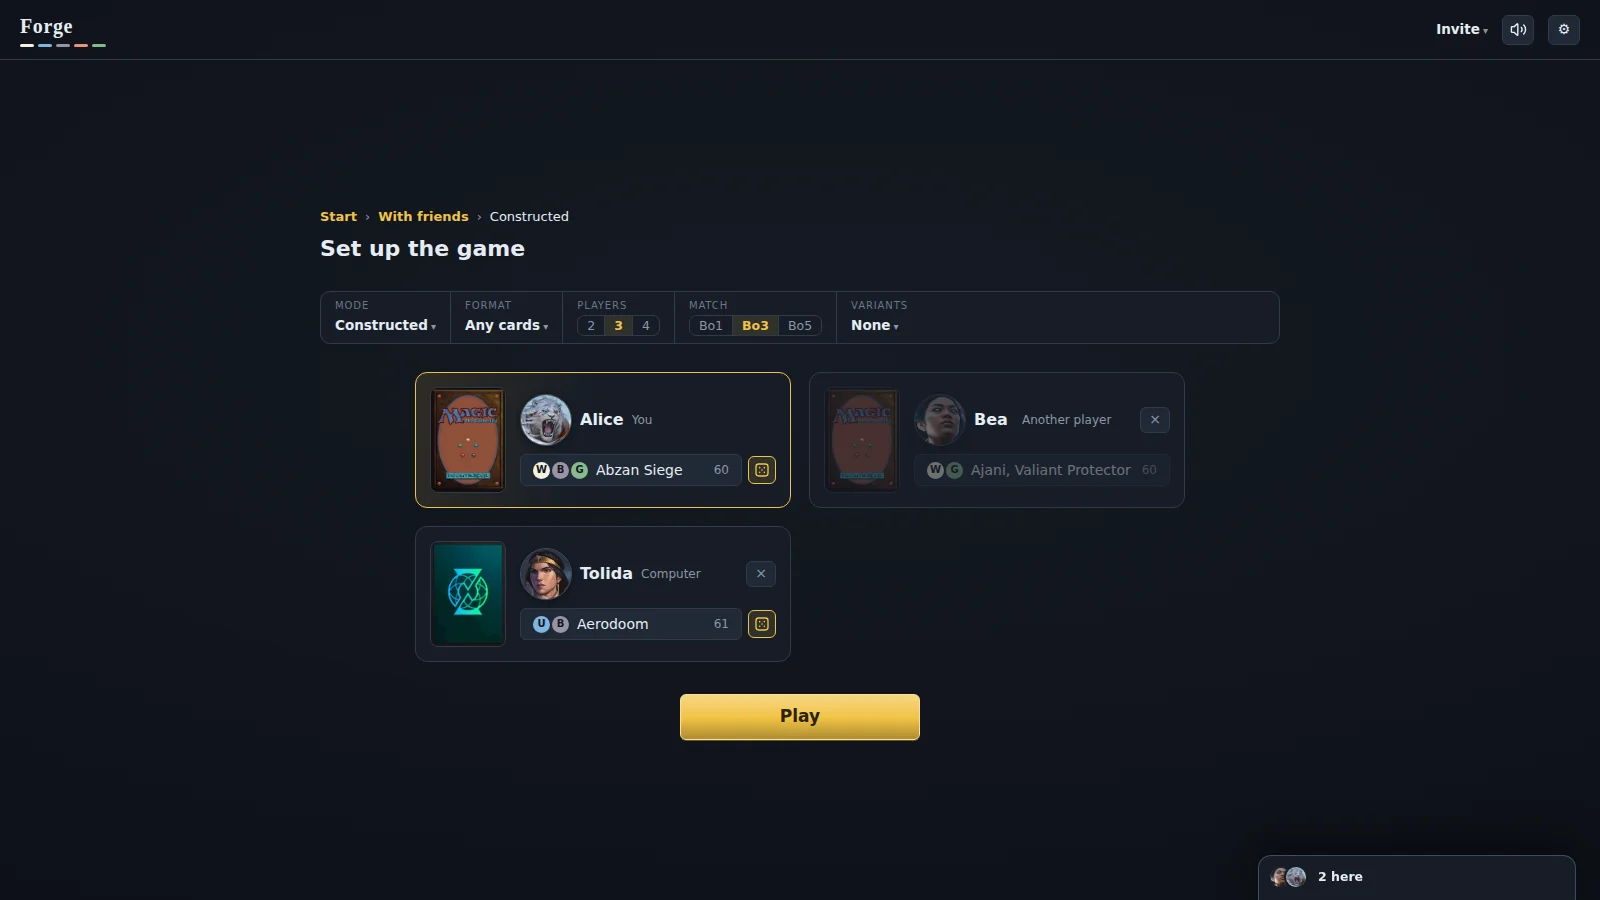
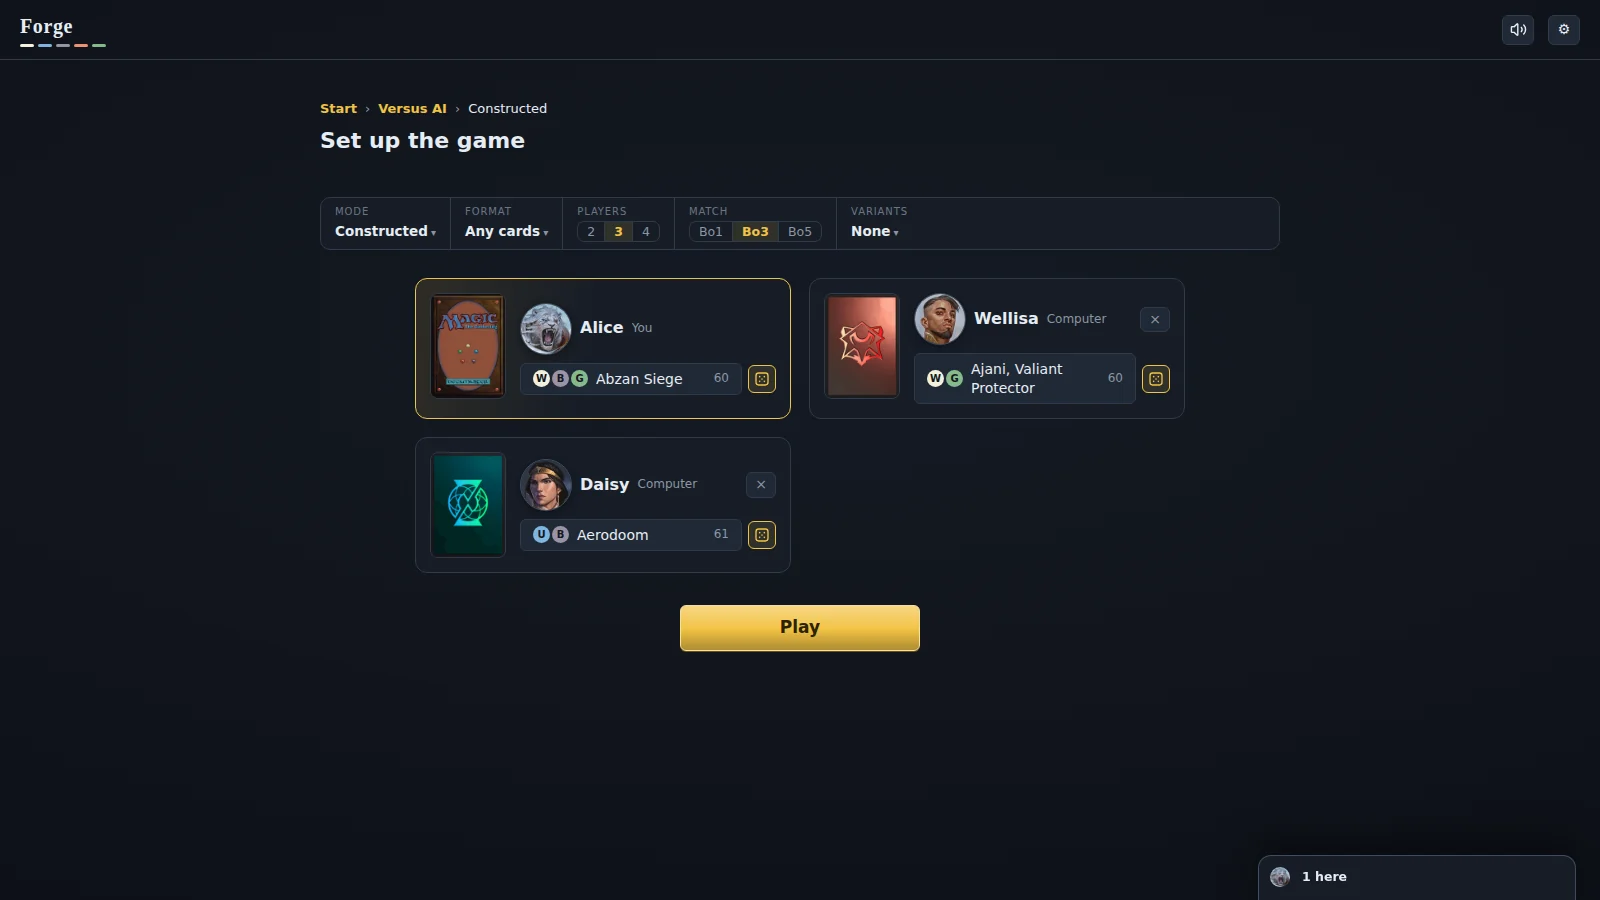
Retake the README's table as a game against the AI, with the setup trail where it now stands
Claude-Session: https://claude.ai/code/session_01TgNSLRqakXnvPoScQdAR6q

diff --git a/forge-gui-web/README.md b/forge-gui-web/README.md
@@ -7,7 +7,7 @@ The interface aims to be modern and easy to pick up, and leaves out much of desk
 It is built for a computer with a mouse and keyboard; phones and tablets aren't supported yet.
 
 <p>
-  <img src="docs/table.webp" width="49%" alt="A table with a guest seated">
+  <img src="docs/table.webp" width="49%" alt="Setting up a game against two AI opponents">
   <img src="docs/target.webp" width="49%" alt="A spell's targets while it is paid for">
 </p>
 <p>
